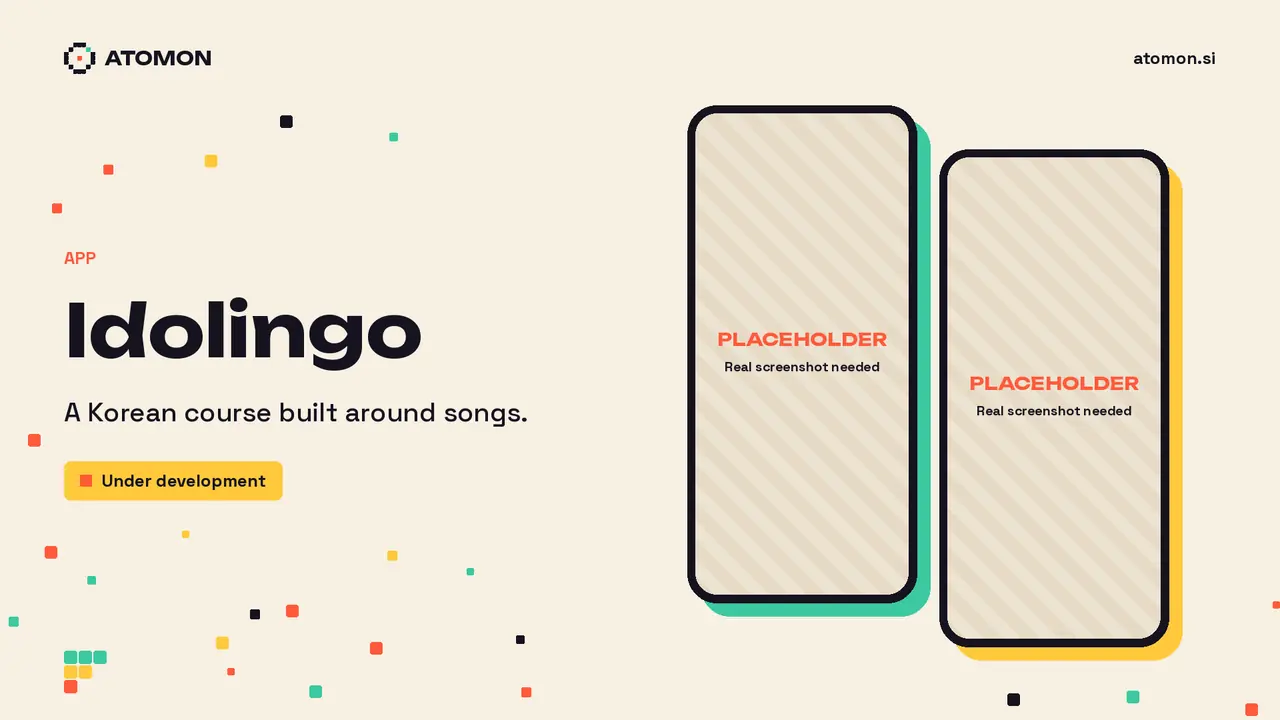
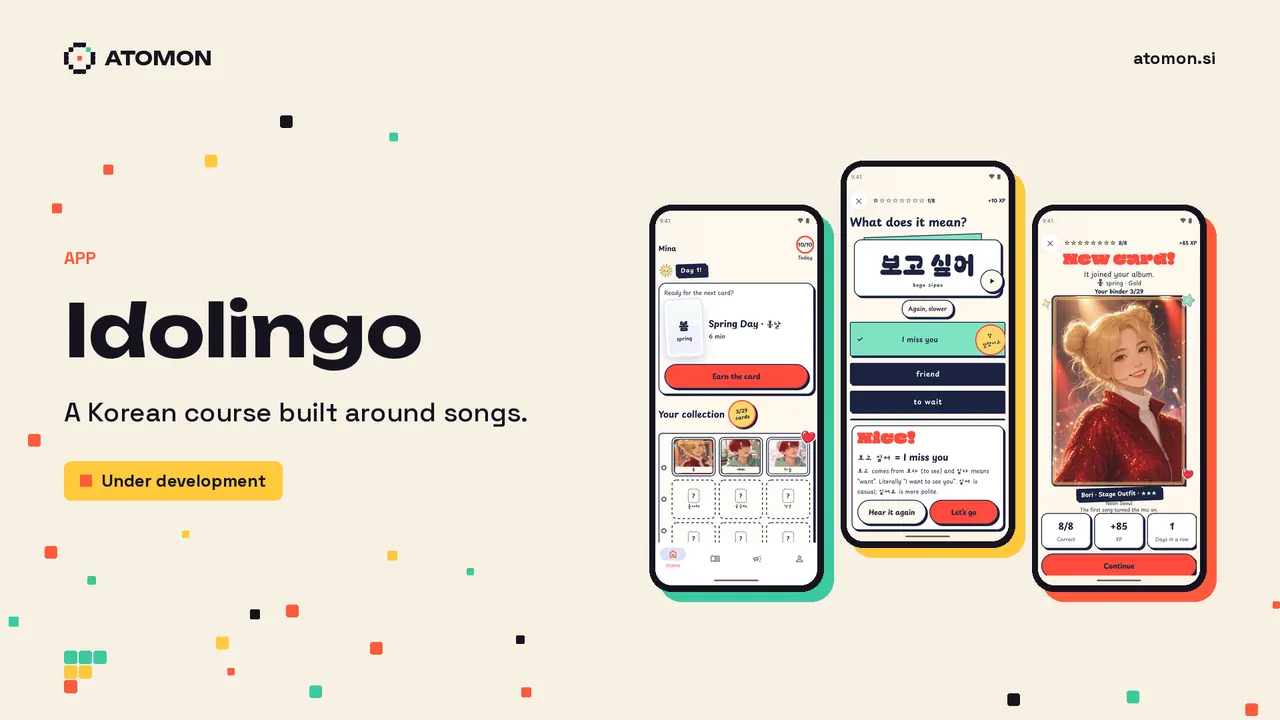
Replace the Idolingo placeholder with the real screens.
Use the new hero, poster, muted loop, and share image on the card and the project page. The page stays under development, with no store badges.

Changed region(s): [[0.5, 0.1222, 0.9688, 0.9167]]

diff --git a/idolingo/course/index.html b/idolingo/course/index.html
@@ -15,12 +15,12 @@
 <meta property="og:image" content="https://atomon.si/og/idolingo.jpg">
 <meta property="og:image:width" content="1200">
 <meta property="og:image:height" content="630">
-<meta property="og:image:alt" content="Idolingo placeholder card. The phone frames say a real screenshot is needed.">
+<meta property="og:image:alt" content="Idolingo, under development. Three phone screens of a Korean course.">
 <meta name="twitter:card" content="summary_large_image">
 <meta name="twitter:title" content="Idolingo · Under development">
 <meta name="twitter:description" content="A Korean course built around songs. No public store listing yet.">
 <meta name="twitter:image" content="https://atomon.si/og/idolingo.jpg">
-<meta name="twitter:image:alt" content="Idolingo placeholder card. The phone frames say a real screenshot is needed.">
+<meta name="twitter:image:alt" content="Idolingo, under development. Three phone screens of a Korean course.">
 <link rel="icon" href="/favicon.ico" sizes="any">
 <link rel="icon" href="/favicon.svg" type="image/svg+xml">
 <link rel="apple-touch-icon" href="/apple-touch-icon.png">
@@ -46,9 +46,9 @@
 <h1>Idolingo</h1>
 <p class="lede">A Korean course built around songs.</p>
 <figure class="hero-media">
-<!-- TODO(visual): Replace /media/idolingo/hero.webp when a real Idolingo screenshot exists. Do not use a mockup. Optional loop: add /media/idolingo/loop.mp4 and a video[data-mp4] like the Maylo page. -->
-<img class="still" src="/media/idolingo/hero.webp" width="1280" height="720" alt="Idolingo placeholder. Empty phone frames say a real screenshot is needed. Under development.">
-<figcaption>Placeholder. A real screenshot is still needed.</figcaption>
+<video autoplay muted loop playsinline poster="/media/idolingo/poster.webp" width="1280" height="720" data-mp4="/media/idolingo/loop.mp4"></video>
+<img class="still" src="/media/idolingo/hero.webp" width="1280" height="720" alt="Idolingo, under development. Three phone screens of a Korean course: a card to earn, a phrase with answer choices, and a new card.">
+<figcaption>Under development. The loop plays when motion is allowed.</figcaption>
 </figure>
 <ul class="points">
 <li>A Korean course that teaches through songs.</li>

diff --git a/index.html b/index.html
@@ -106,8 +106,7 @@
 <article class="card reveal" style="--d:.1s">
 <a class="card-main" href="/idolingo/course/">
 <div class="card-visual">
-<!-- TODO(visual): Replace media/idolingo/hero.webp with a screenshot from the real app. This file is a labeled placeholder. -->
-<img src="/media/idolingo/hero.webp" width="1280" height="720" alt="Idolingo placeholder. The phone frames are empty and say a real screenshot is needed. Under development." loading="lazy" decoding="async">
+<img src="/media/idolingo/hero.webp" width="1280" height="720" alt="Idolingo, under development. Three phone screens of a Korean course." loading="lazy" decoding="async">
 </div>
 <div class="card-body">
 <p class="chips"><span class="chip dev">Under development</span></p>

diff --git a/el/index.html b/el/index.html
@@ -104,7 +104,7 @@
 <article class="card reveal">
 <a class="card-main" href="/idolingo/course/">
 <div class="card-visual">
-<img src="/media/idolingo/hero.webp" width="1280" height="720" alt="Idolingo, θέση για πραγματικό screenshot. Υπό ανάπτυξη." loading="lazy" decoding="async">
+<img src="/media/idolingo/hero.webp" width="1280" height="720" alt="Idolingo, υπό ανάπτυξη. Τρεις οθόνες ενός μαθήματος κορεατικών." loading="lazy" decoding="async">
 </div>
 <div class="card-body">
 <p class="chips"><span class="chip dev">Under development</span></p>

diff --git a/README.md b/README.md
@@ -24,6 +24,6 @@ Legal pages are unchanged:
 
 ## Still to fill in
 
-- Idolingo, Shopify Avatar, and the AI e-shop builder use labeled placeholder images. Replace `media/<project>/hero.webp` and `og/<project>.jpg` with a real screenshot. A loop can be added as `media/<project>/loop.mp4` on a `video[data-mp4]`, same pattern as Maylo.
+- Shopify Avatar and the AI e-shop builder still use labeled placeholder images. Replace `media/<project>/hero.webp` and `og/<project>.jpg` with a real screenshot. A loop can be added as `media/<project>/loop.mp4` on a `video[data-mp4]`, same pattern as Maylo.
 - The Mr Atlas **app** screens are in `media/mr-atlas/`. It is still under development, with no store URL. Store links are a `TODO(store)` comment in `mr-atlas/index.html`. The YouTube channel link stays on the page.
 - Rise of Civs uses `media/rise-of-civs/` and `og/rise-of-civs.jpg`. The supplied art is AI-made.
